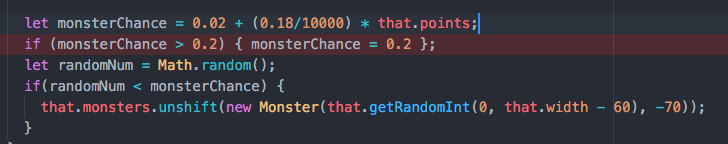
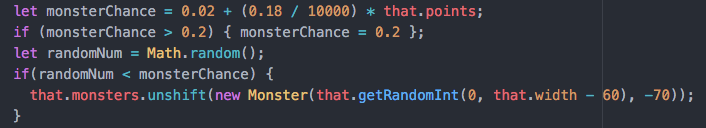
second round to-do

diff --git a/lib/game.js b/lib/game.js
@@ -176,7 +176,7 @@ class Game{
           that.pads.unshift(new Pad(that.getRandomInt(0, that.width - 60), that.pads[0].y - that.intervalHeight, type, move, that.padIndex));
           that.padIndex += 1;
 
-          let monsterChance = 0.02 + (0.18/10000) * that.points;
+          let monsterChance = 0.02 + (0.18 / 10000) * that.points;
           if (monsterChance > 0.2) { monsterChance = 0.2 };
           let randomNum = Math.random();
           if(randomNum < monsterChance) {
@@ -245,8 +245,8 @@ class Game{
                                   0, 0, this.width, this.height);
         ctx.fillStyle = "Black";
         ctx.font = "18pt Calibri";
-        ctx.fillText("GAME OVER", 300, 100);
-        ctx.fillText("YOUR SCORE: " + this.points, 280, 130);
+        ctx.fillText("GAME OVER", 280, 100);
+        ctx.fillText("YOUR SCORE: " + this.points, 270, 130);
       }
     } else {
       this.start();

diff --git a/lib/bundle.js b/lib/bundle.js
@@ -269,7 +269,7 @@
 	          that.pads.unshift(new Pad(that.getRandomInt(0, that.width - 60), that.pads[0].y - that.intervalHeight, type, move, that.padIndex));
 	          that.padIndex += 1;
 	
-	          let monsterChance = 0.02 + (0.18/10000) * that.points;
+	          let monsterChance = 0.02 + (0.18 / 10000) * that.points;
 	          if (monsterChance > 0.2) { monsterChance = 0.2 };
 	          let randomNum = Math.random();
 	          if(randomNum < monsterChance) {
@@ -338,8 +338,8 @@
 	                                  0, 0, this.width, this.height);
 	        ctx.fillStyle = "Black";
 	        ctx.font = "18pt Calibri";
-	        ctx.fillText("GAME OVER", 300, 100);
-	        ctx.fillText("YOUR SCORE: " + this.points, 280, 130);
+	        ctx.fillText("GAME OVER", 280, 100);
+	        ctx.fillText("YOUR SCORE: " + this.points, 270, 130);
 	      }
 	    } else {
 	      this.start();

diff --git a/index.html b/index.html
@@ -3,8 +3,11 @@
 <html>
   <head>
     <link rel="stylesheet" href="lib/styles.css">
-    <title>Poodle Jump</title>
+    <title>Lump Jump</title>
     <link href="https://fonts.googleapis.com/css?family=Roboto" rel="stylesheet">
+
+    <link rel="shortcut icon" href="assets/favicon.ico" type="image/x-icon">
+    <link rel="icon" href="assets/favicon.ico" type="image/x-icon">
   </head>
 
   <body>

diff --git a/lib/styles.css b/lib/styles.css
@@ -1,5 +1,5 @@
 body {
-  margin: 0px;
+  margin: 30px 0 0 0;
   padding: 0px;
   text-align: center;
 }
